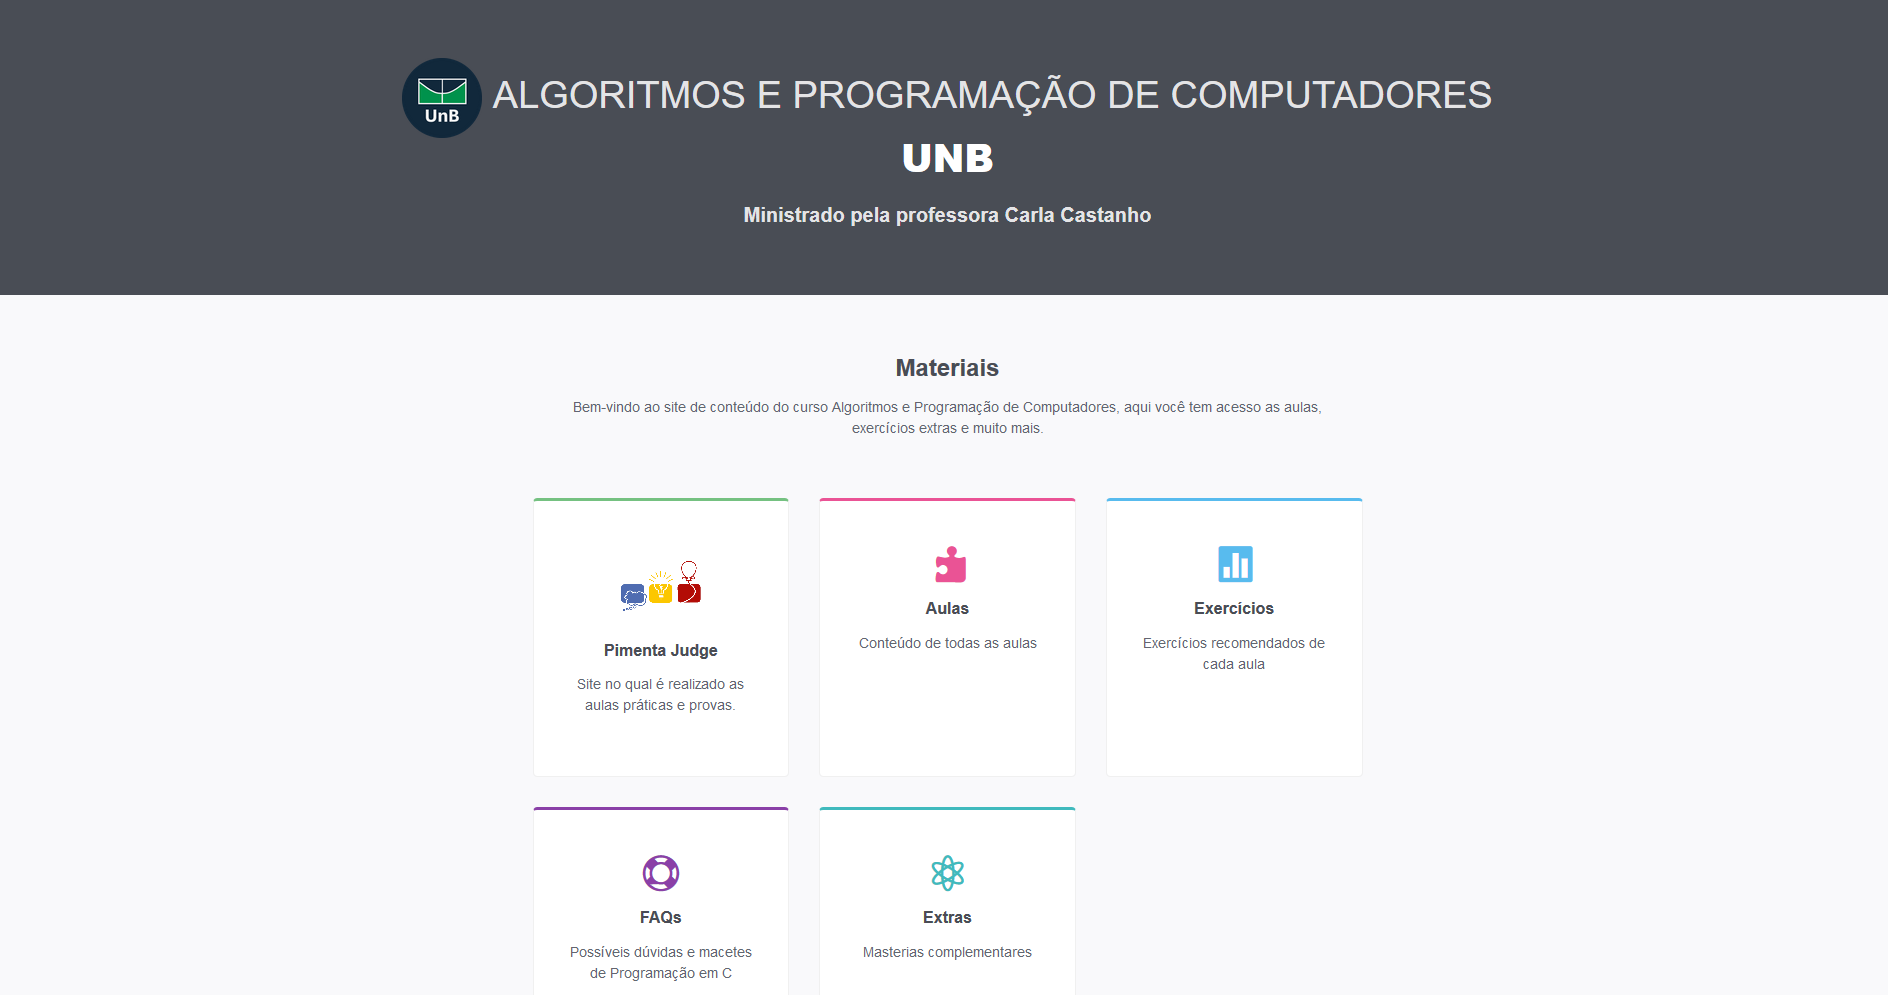
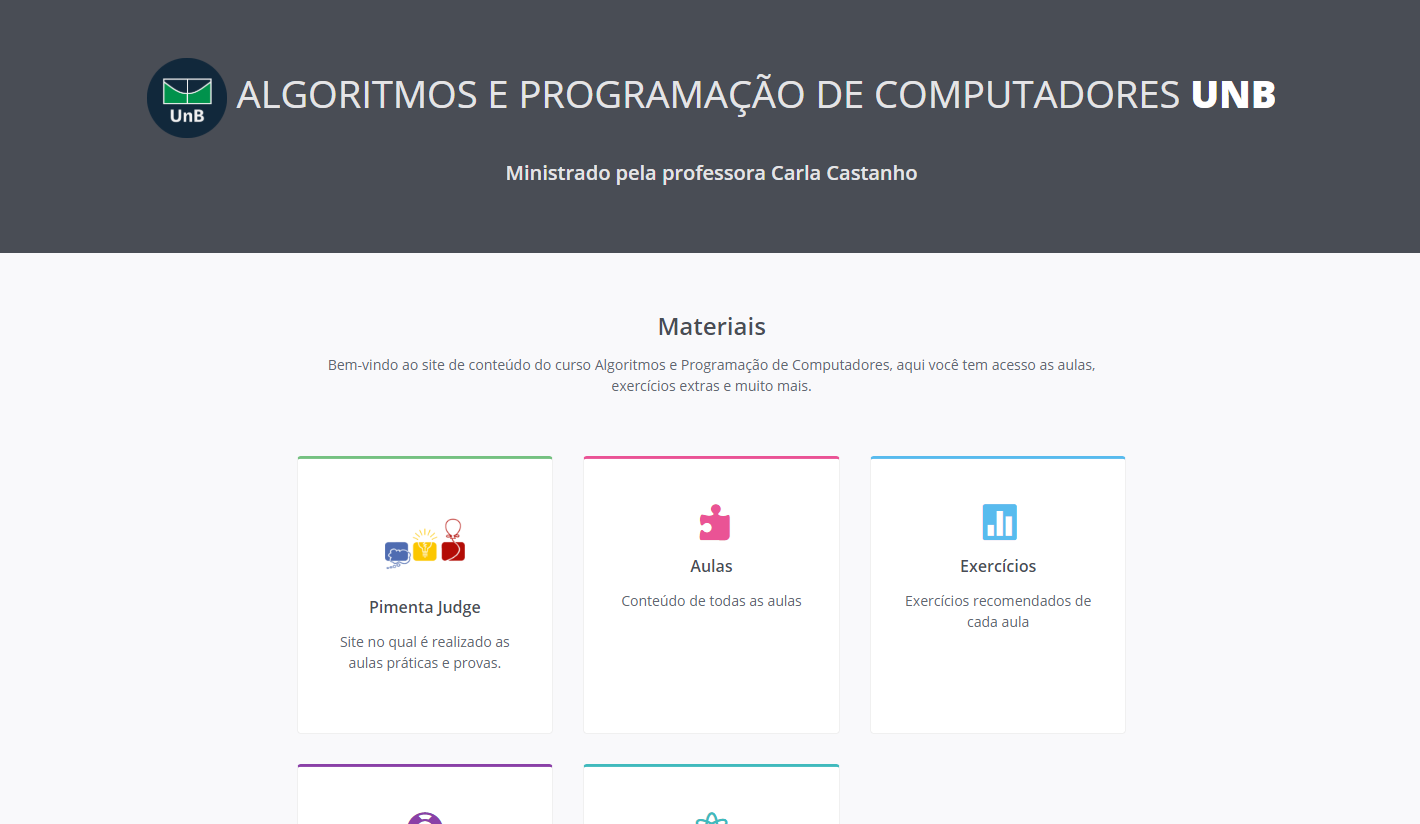
Fixing font-style bug

diff --git a/aula7.html b/aula7.html
@@ -3,7 +3,7 @@
 <!--[if IE 9]> <html lang="en" class="ie9"> <![endif]-->  
 <!--[if !IE]><!--> <html lang="en"> <!--<![endif]-->  
 <head>
-    <title>Vetores - Aula 7</title>
+    <title>Busca &#x26; Ordena&#xE7;&#xE3;o</title>
     <!-- Meta -->
     <meta charset="utf-8">
     <meta http-equiv="X-UA-Compatible" content="IE=edge">
@@ -39,7 +39,7 @@
 
 </head> 
 
-<body class="body-green">
+<body class="body-pink">
     <div class="page-wrapper">
         <!-- ******Header****** -->
         <header id="header" class="header">
@@ -61,174 +61,54 @@
         <div class="doc-wrapper">
             <div class="container">
                 <div id="doc-header" class="doc-header text-center">
-                    <h1 class="doc-title"><i class="icon fa fa-paper-plane"></i> Vetores</h1>
-                    <div class="meta"><i class="fa fa-clock-o"></i> Last updated: April 22th, 2018</div>
+                    <h1 class="doc-title"><i class="icon icon_puzzle_alt"></i> Busca &#x26; Ordena&#xE7;&#xE3;o</h1>
+                    <div class="meta"><i class="fa fa-clock-o"></i> Last updated: April 28th, 2018</div>
                 </div><!--//doc-header-->
                 <div class="doc-body">
                     <div class="doc-content">
                         <div class="content-inner">
                             <section id="intro" class="doc-section">
-                                <h2 class="section-title">Introdução</h2>
+                                <h2 class="section-title">Introdu&#xE7;&#xE3;o</h2>
                                 <div class="section-block">
+                                    <h4>Busca</h4>
                                     <ul class="list">
-                                        <li><p>Em algumas aplicações podemos ter uma quantidade muito grande de dados do mesmo tipo para processar, e criar uma variável para cada dado seria muito complicado.</p></li>
-                                        <li><p>Em algumas aplicações temos sequências de algum tipo e o programa precisa funcionar para qualquer sequência, independente dos valores nela ou do tamanho da sequência.</p></li>
-                                        <li><p>Imagine que você precisa fazer um programa para calcular as médias finais dos alunos de APC.
-                                        <li><p>Para cada aluno, você deve ler as notas de 3 provas. Deve então e calcular e mostrar a média de cada um.</p></li>
-                                        <li><p>Com o que aprendemos até agora, é possível resolver esse problema. No entanto, você precisaria de: 40 x 3 provas = <b>120 variáveis!!</b></p></li>
-                                        <div id = "exemplo1"><img src="assets\images\Vetores\exemplo1.1.png" class = "img-responsive"></div>
-                                        <div id = "exemplo2" style="display: none;"><img src="assets\images\Vetores\exemplo1.2.png" class = "img-responsive"></div>
-                                        <div id = "exemplo3" style="display: none;"><img src="assets\images\Vetores\exemplo1.3.png" class = "img-responsive"></div>
-                                        <a  class="btn btn-green" onclick="animation_prev('exemplo',3)">Prev</a>
-                                        <a  class="btn btn-green" style = "float: right;" onclick="animation_next('exemplo',3)">Next</a>
-
-                                        <li><p>E se fosse um programa para calcular as médias da UnB inteira?</p></li>
-                                        <li><p>E se você precisar adicionar uma nota? Ou fazer qualquer alteração no cálculo?</p></li>
-                                        <li><p>Para essas situações usamos vetores (também chamados arrays).</p></li>
-
-
-
+                                        <li><p>Busca é um método bastante utilizado em programação, pois frequentemente necessitamos de informações que podem ser adquiridas através busca.</p></li>
+                                        <li><p>Pode-se realizar busca em diversos lugares como: vetores, strings, intervalos numéricos...</p></li>
+                                        <li><p>...</p></li>
+                                    </ul>   
+                                    <h4>Ordenação</h4>
+                                    <ul class="list">
+                                        <li><p>A ordenação consiste em dispor elementos em uma certa sequência, seguindo algum critério para isso. Por exemplo, a ordenação lexicográfica (alfabética) para dados literais, ou crescente e decrescente para dados numéricos.</p></li>
+                                        <li><p>Para isso temos muitos algoritmos conhecidos: InsertionSort, ShellSort, BubbleSort, HeapSort, MergeSort , QuickSort…</p></li>
+                                        <li><p>Aqui veremos o <b>BubbleSort</b> e o <b>MergeSort</b>.</p></li>    
                                     </ul>
 
                                 </div>
                             </section><!--//doc-section-->
-                            <section id="estrutura" class="doc-section">
-                                <h2 class="section-title">Estrutura de um Vetor</h2>
+                            <section id="linear" class="doc-section">
+                                <h2 class="section-title">Busca Linear</h2>
                                 <div class="section-block">
                                     <ul class="list">
-                                        <li><p>Vetores são sequências ordenadas e indexáveis de um mesmo tipo (int, float, double, char, … )</p>
-                                        <li><p>Vetores possuem:</p>
-                                            <ul class="list">
-                                                <li>Tipo</li>      <li>Nome.</li>       <li>Tamanho.</li>
-                                            </ul>
-                                            <pre class = "prettyprint linenums:1 lang-cpp">
-int array[100]; // vetor “array” de tipo int com tamanho 100
-float nums[] = {3.14, 2.71, 1.44, 9.98}; // vetor “nums” de tipo float inicializado</pre>
-                                        </li>
-                                        <li><p>Vetores podem ser inicializados na declaração, e somente nesse caso não é necessário indicar o tamanho</p></li>
+                                        
                                     </ul>
                                 </div>
                             </section><!--//doc-section-->
-                            <section id="segfault" class="doc-section">
-                                <h2 class="section-title">Índices &amp; Seg Fault</h2>
+                            <section id="binary" class="doc-section">
+                                <h2 class="section-title">Busca bin&#xE1;ria</h2>
                                 <div class="section-block">
                                     <ul class="list">
-                                    <pre class = "prettyprint linenums:1 lang-cpp">
-int array[3] = {1, 4 ,-8}           </pre>
-                                    <li><p>Vetores são indexados de 0 até n-1, ou seja, a primeira posição  do vetor se encontra no índice 0.</p></li>
-                                    <pre class = "prettyprint linenums:1 lang-cpp">
-índice:    0   1   2
-valor:    [1] [4] [-8]              </pre>
-                                    <li><p>Os valores de um vetor podem ser acessados em tempo  constante,  para isso, basta indicar qual posição  deseja acessar.</p></li>
-                                    <pre class = "prettyprint linenums:1 lang-cpp">
-int array[3] = {1, 4 ,-8}  
-int a,b,c,x = 2;
-a = array[0]; // a = 1
-b = array[1]; // b = 4
-c = array[x]; // c = -8             </pre>
-                                    <li><p>Deve-se atentar bastante para não acessar um índice que não existe. O acesso de um vetor por um índice inválido causa um erro chamado <b>Segmentation Fault</b>.</p>
-                                    </li>
-                                    <li><p>Índices negatios (-1, -2 … ) ou maiores ou iguais ao tamanho do vetor (n , n+1 …) causam falha de segmentação.</p>
-                                    </li>
-                                    <pre class = "prettyprint linenums:1 lang-cpp">
-int n = 31230;
-int array[3] = {1, 4 ,-8};  
-printf("%d\n",array[n]); // Irá ocorrer falha de segmentação         </pre>
-                                    <a href="assets/codes/segfault.c" class="btn btn-green" download="">Download Code</a>
-                                    <a href="https://goo.gl/jR8cty" class="btn btn-green" target="blank">Code Execution</a>
-                                    <p>Executando o programa no terminal</p>
-                                    <pre class = "prettyprint  lang-bsh">
-    $ gcc -Wall -ansi -o segfault segfault.c
-    $ ./segfault
-    Segmentation fault (core dumped)
-    $         </pre>
-                                    </li>
-                                    <li><p>Exemplos:</p>
-                                         <ul><li>Funcionamento de um vetor</li></ul>
-                                        <div class="row">
-                                            <div>
-                                                <pre class = "prettyprint linenums:1 lang-cpp">
-int main(){
-    int a[3] = {1, 4, -8};
-    int b[3], i;
-
-    for(i = 0; i < 3; i++){
-        b[i] = a[i] * 2;
-    }
-    return 0;
-}                                           </pre>
-                                                <a href="assets/codes/array1.c" class="btn btn-green" download="">Download Code</a>
-                                                <a href="https://goo.gl/33nxi1" class="btn btn-green" target="blank">Code Execution</a>
-                                            </div>
-                                        </div>
-                                    <ul><li>Disputa de alunos:</li>
-                                            <p>Apos vários jantares a Luz de Veras, permitiu que Veras tivesse uma idéia que possibilitasse esquentar o clima entre duas turmas de programação, visando o aumento do rendimento das notas dos alunos. Ambas as turmas possuem <b>N</b> alunos, e cada aluno tirou uma nota <b>Xi</b> na prova (Xi representa a nota do iésimo aluno). A disputa seria feita da seguinte forma: se o aluno i da turma A, tirou uma nota maior que o aluno i da turma B, então a turma A ganha um ponto, caso contrário a turma B ganha 1 ponto. Sua tarefa é ajudar Veras a descobrir quantos pontos cada turma fez, sabendo que ambas as turmas possuem a mesma quantidade de alunos.</p>
-                                    </ul>
-                                    <pre class = "prettyprint linenums:1 lang-cpp">
-int n,i, resp = 0;
-scanf("%d", &n);
-
-double turmaA[n], turmaB[n];
-
-for(i = 0; i < n; i++)
-    scanf("%lf", &turmaA[i]);
-
-for(i = 0; i < n; i++)
-    scanf("%lf", &turmaB[i]);
-
-for(i = 0; i < n; i++){
-    if(turmaA[i] > turmaB[i]){
-        resp++;
-    }
-}
-
-printf("A turma A possui %d pontos\n",resp);    
-printf("A turma B possui %d pontos\n",n-resp);                                           </pre>
-                                    <a href="assets/codes/disputa.c" class="btn btn-green" download="">Download Code</a>
-                                    </li>
+                                    
                                     </ul>
                                 </div>
                             </section><!--//doc-section-->
-                            <section id="parametros" class="doc-section">
-                                <h2 class="section-title">Vetores como parâmetros de função</h2>
+                            <section id="sort" class="doc-section">
+                                <h2 class="section-title">Ordena&#xE7;&#xE3;o</h2>
                                 <div class="section-block">
-                                    <ul>
-                                        <li>Vetores são muito utilizados como parâmetros de funções. Eles são passados por referência, entao qualquer
-                                            alteração no vetor feita dentro da função afeta o vetor original.
-                                        </li>
-                                        <li>Em geral, ao passar o vetor para uma função também precisamos passar o tamanho dele.</li>
+                                    <ul class="list">
+                                       
                                     </ul>
-                                    <pre class = "prettyprint linenums:1 lang-cpp">
-/* returns the max between two numbers */
-int Max(int a, int b){
-    return a > b ? a : b;
-}
-/* returns the biggest element in array */
-int maxElement(int* array, int n){
-    int i;
-    int max = array[0];
-    for(i = 1; i < n; i++){
-        max = Max(array[i], max);
-    }
-    return max;
-}
-
-int main(){
-    int array[] = {0, -1, 3, -10, 4, 22, -5, 2};
-    int maior = maxElement(array, 8);
-    printf("O maior elemento é %d\n", maior);
-}
-                                </pre>
-                                <a href="assets/codes/funcParametro.c" class="btn btn-green" download="">Download Code</a>
-                                <a href="https://goo.gl/oUGKex"class="btn btn-green" download="">Code Execution</a>
-                            <ul>
-                                <li>Existem duas maneiras diferentes de passar vetores como parâmetros de função. Não faz diferença qual você usa, pode ser a da sua preferência.</li>
-                                <li>Não é necessário especificar o tamanho do array na segunda maneira</li>
-                            </ul>    
-                            <pre class = "prettyprint linenums:1 lang-cpp">
-int Max(int* array, int n); /* cabeçalho 1 */
-int Max(int array[], int n); /* cabeçalho 2 */</pre>
-                            </div>
+                                   
+                                </div>
                             </section><!--//doc-section-->
                             
                             <section id="recomendados" class="doc-section">
@@ -277,26 +157,19 @@ int Max(int array[], int n); /* cabeçalho 2 */</pre>
                             </section><!--//doc-section-->
                             <section id="materiais" class="doc-section">
                                 <h2 class="section-title">Materiais Extras</h2>
-                                <h4 class="">Malloc &amp; Memset</h4>
+                                <h4 class="">Complexity</h4>
                                 <div class="section-block">
                                     <ul>
-                                        <li>A função Malloc é utilizada para alocar uma porção de memória.</li>
-                                        <li>A função Memset é utilizada para inicializar uma região de memória com um determinado valor.</li>
-                                        
-                                        <li>Explicaremos como usar essas duas funções para criar vetores dinâmicos. Tudo bem se os conceitos não ficarem tão claros agora, mas tenha em mente que essas funções são muito utilizadas em Estruturas de Dados, e oferecem grande flexibilidade. </li>
-                                        <li>Os vetores que vimos até agora são estáticos, pois seu tamanho é definido em tempo de compilação.
-                                        Os vetores dinâmicos, por outro lado, são definidos em tempo de execução. </li>
-                                        <li>A utilização dos vetores dinâmicos é exatamente igual a dos vetores estáticos, só um cuidado à mais é necessário: liberar o espaço de memória alocado.</li>
-                                        
-                                        <li>Lembre-se também  que ao alocar um espaço de memória sem inicializá-lo, aquele espaço terá lixo de memória. 
-                                        A função memset então pode ser utilizada para inicializar aquele espaço com um valor determinado. Ela pode ser usada em qualquer vetor. </li>
-                                        
-                                        <li>A utilização envolve ponteiros, que é o retorno da função malloc.</li>
+                                       
                                     </ul>
-                                    <pre class = "prettyprint linenums:1 lang-cpp">
-int k = 100; /* future size of array */
-int* array = (int*) malloc(k * sizeof(int)); /* sizeof(int) returns size of int in bytes*/
-memset(array, 0, sizeof(array)); </pre>
+                                   
+                                </div>
+                                <h4 class="">Sexo</h4>
+                                <div class="section-block">
+                                    <ul>
+                                       
+                                    </ul>
+                                   
                                 </div>
                             </section><!--//doc-section-->
                             
@@ -306,10 +179,10 @@ memset(array, 0, sizeof(array)); </pre>
                     <div class="doc-sidebar hidden-xs">
                         <nav id="doc-nav">
                             <ul id="doc-menu" class="nav doc-menu" data-spy="affix">
-                                <li><a class="scrollto" href="#intro">Introdução</a></li>
-                                <li><a class="scrollto" href="#estrutura">Estrutura de um Vetor</a></li>
-                                <li><a class="scrollto" href="#segfault">Índices &amp; Seg Fault</a></li>
-                                <li><a class="scrollto" href="#parametros">Parâmetros de função</a></li>
+                                <li><a class="scrollto" href="#intro">Introdu&#xE7;&#xE3;o</a></li>
+                                <li><a class="scrollto" href="#linear">Busca Linear</a></li>
+                                <li><a class="scrollto" href="#binary">Busca Bin&#xE1;ria</a></li>
+                                <li><a class="scrollto" href="#sort">Ordena&#xE7;&#xE3;o</a></li>
                                 <li><a class="scrollto" href="#recomendados">Exercícios Recomendados</a></li>
                                 <li><a class="scrollto" href="#materiais">Materiais Extras</a></li>
 

diff --git a/aulas.html b/aulas.html
@@ -116,10 +116,19 @@
                             </div><!--//icon-holder-->
                             <h3 class="title">Aula 6</h3>
                             <p class="intro">Vetores</p>
+                            <a class="link" href="aula6.html"><span></span></a>
+                        </div><!--//item-inner-->
+                    </div><!--//item-->
+                    <div class="item item-pink item-2 col-md-4 col-sm-6 col-xs-6">
+                        <div class="item-inner">
+                            <div class="icon-holder">
+                                <span aria-hidden="true" class="icon icon_puzzle_alt"></span>
+                            </div><!--//icon-holder-->
+                            <h3 class="title">Aula 7</h3>
+                            <p class="intro">Buscas &#x26; Ordena&#xE7;&#xE3;o</p>
                             <a class="link" href="aula7.html"><span></span></a>
                         </div><!--//item-inner-->
                     </div><!--//item-->
-                    
                 </div><!--//cards-->
                 
             </div><!--//container-->

diff --git a/assets/css/styles.css b/assets/css/styles.css
@@ -11,7 +11,7 @@
 body {
   font-family: 'Open Sans', arial, sans-serif;
   color: #494d55;
-  font-size: 18px;
+  font-size: 14px;
   -webkit-font-smoothing: antialiased;
   -moz-osx-font-smoothing: grayscale;
 }
@@ -19,16 +19,10 @@ html,
 body {
   height: 100%;
 }
-small{
-    font-size: 12px;
-}
-pre {
-    font-size: 14px;
-}
 .page-wrapper {
   min-height: 100%;
   /* equal to footer height */
-  margin-bottom: -75px;
+  margin-bottom: -50px;
 }
 .page-wrapper:after {
   content: "";
@@ -36,7 +30,7 @@ pre {
   height: 50px;
 }
 .footer {
-  height: 75px;
+  height: 50px;
 }
 p {
   line-height: 1.5;
@@ -1271,8 +1265,3 @@ select {
 /* Small devices (tablets, 768px and up) */
 /* Medium devices (desktops, 992px and up) */
 /* Large devices (large desktops, 1200px and up) */
-
-/* changes in original css */
-br {
-  line-height: 50%
-}
